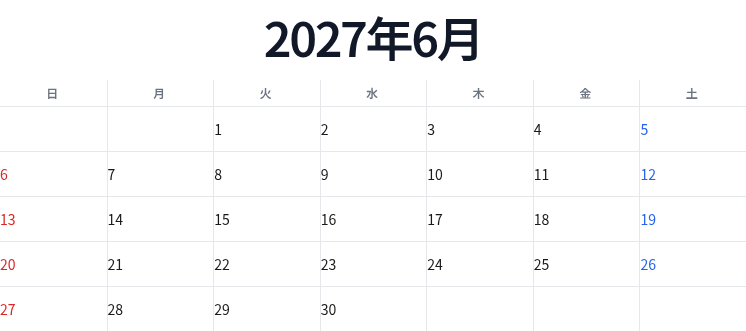
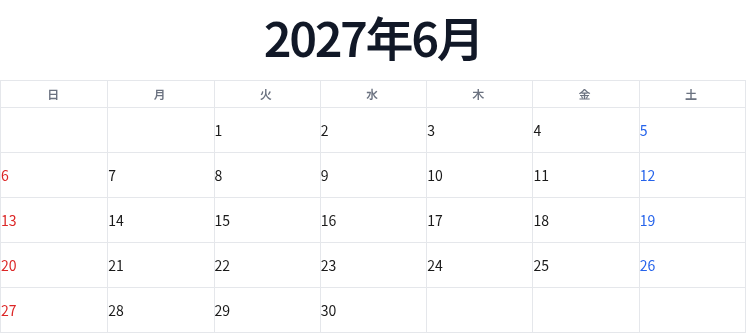
Refine writing and Modern calendar presets

diff --git a/tests/e2e/calendar-layouts.spec.ts b/tests/e2e/calendar-layouts.spec.ts
@@ -35,7 +35,7 @@ test("selects calendar presets and exports the date list", async ({ page }) => {
   for (const [label, layout] of [
     ["書き込み用", "writing"],
     ["クラシカル", "centered"],
-    ["右揃え・線なし", "right-aligned"],
+    ["モダン", "right-aligned"],
     ["年月を上下に", "stacked"],
     ["月は左、年は右", "split"],
     ["左サイド見出し", "side-title"],
@@ -47,6 +47,7 @@ test("selects calendar presets and exports the date list", async ({ page }) => {
     await button.click();
     await expect(button).toHaveAttribute("aria-pressed", "true");
     await expect(calendar).toHaveAttribute("data-calendar-layout", layout);
+    await expect(calendar).toHaveAttribute("data-day-frame", String(layout === "writing"));
   }
 
   await openPanel(page, "サイズと配置");
@@ -212,4 +213,36 @@ test("toggles vertical rules, horizontal rules and the frame independently", asy
   await layouts.getByRole("button", { name: "日付カード", exact: true }).click();
   await expect(calendar).toHaveAttribute("data-day-rule-v", "true");
   await expect(calendar).toHaveAttribute("data-day-rule-h", "true");
+});
+
+test("aligns the Modern heading, weekdays, and underlined holiday dates", async ({ page }) => {
+  await page.goto("/");
+  await openPanel(page, "見た目");
+  await page.getByRole("button", { name: "モダン", exact: true }).click();
+  await expect(page.getByRole("button", { name: "Monochrome", exact: true })).toHaveClass(/ring-2/);
+  const calendar = page.locator('[data-calendar-layout="right-aligned"]').first();
+  const holiday = calendar.locator(".calendar-holiday-underline").first();
+  await expect(holiday).toHaveText("1");
+  await expect(holiday).toHaveCSS("text-decoration-line", "underline");
+  await expect
+    .poll(() =>
+      calendar.evaluate((grid) => {
+        const edge = (selector: string) => {
+          const range = document.createRange();
+          range.selectNodeContents(grid.querySelector(selector)!);
+          return range.getBoundingClientRect().right;
+        };
+        const month = edge(".calendar-title");
+        const saturday = edge(".calendar-weekdays > :last-child");
+        const saturdayDate = edge(".calendar-cell:nth-child(7) .calendar-day-number");
+        const friday = edge(".calendar-weekdays > :nth-child(6)");
+        const holidayDate = edge(".calendar-holiday-underline");
+        return Math.max(
+          Math.abs(month - saturday),
+          Math.abs(saturday - saturdayDate),
+          Math.abs(friday - holidayDate),
+        );
+      }),
+    )
+    .toBeLessThan(1);
 });

diff --git a/src/lib/html/gridRenderer.ts b/src/lib/html/gridRenderer.ts
@@ -53,15 +53,15 @@ export function renderGridHtml(
   const titleText =
     titleOrder === "stacked" ? year + escapeHtml(title.main) : escapeHtml(title.main) + year;
   const dayCount = page.grid.flat().filter((cell) => cell.isCurrentMonth && cell.date).length;
-  let gridHtml = `<div data-calendar-layout="${layout}"${alignmentAttrs} data-day-rule-h="${dayRuleH}" data-day-rule-v="${dayRuleV}" data-day-frame="${dayFrame}" data-title-position="${titlePosition}" data-title-order="${titleOrder}" data-title-rule="${titleRule}" data-weekday-align="${weekdayAlign}" style="width:${gridWidth}%;--calendar-grid-rule:${page.theme.colors.gridRule};--calendar-list-rows:${Math.ceil(dayCount / 2)};--calendar-list-short-rows:${Math.ceil(dayCount / 3)}">`;
+  let gridHtml = `<div data-calendar-layout="${layout}"${alignmentAttrs} data-day-rule-h="${dayRuleH}" data-day-rule-v="${dayRuleV}" data-day-frame="${dayFrame}" data-title-position="${titlePosition}" data-title-order="${titleOrder}" data-title-rule="${titleRule}" data-weekday-align="${weekdayAlign}" style="width:${gridWidth}%;--calendar-grid-rule:${page.theme.colors.gridRule};--calendar-holiday-mark:${page.theme.colors.holidayMark};--calendar-list-rows:${Math.ceil(dayCount / 2)};--calendar-list-short-rows:${Math.ceil(dayCount / 3)}">`;
   // Month label
-  gridHtml += `<div class="calendar-title" style="color:${page.theme.colors.monthLabel};font-size:${monthFontSize}px;font-weight:800;letter-spacing:-0.05em;margin-bottom:${headerGap}px">${titleText}</div>`;
+  gridHtml += `<div class="calendar-title" style="color:${page.theme.colors.monthLabel};font-size:${monthFontSize}px;font-weight:800;margin-bottom:${headerGap}px">${titleText}</div>`;
   // Header rule
   gridHtml += `<div class="calendar-title-rule" style="border-bottom:1px solid ${page.theme.colors.headerRule};margin-bottom:${headerGap}px"></div>`;
   // Weekday headers
   gridHtml += `<div class="calendar-weekdays" style="margin-bottom:${dayFrame || dayRuleV ? 0 : Math.round(headerGap / 2)}px">`;
   for (const header of page.weekdayHeaders) {
-    gridHtml += `<div style="font-size:${weekdayFontSize}px;font-weight:700;text-transform:uppercase;letter-spacing:0.2em;color:${page.theme.colors.weekdayHeader};padding:${Math.round(cellPadding / 2)}px 0">${escapeHtml(header)}</div>`;
+    gridHtml += `<div style="font-size:${weekdayFontSize}px;font-weight:700;text-transform:uppercase;color:${page.theme.colors.weekdayHeader};padding:${Math.round(cellPadding / 2)}px 0">${escapeHtml(header)}</div>`;
   }
   gridHtml += `</div>`;
   // Day grid

diff --git a/src/components/sidebar/AppearanceSection.tsx b/src/components/sidebar/AppearanceSection.tsx
@@ -16,6 +16,8 @@ const thumbnails = import.meta.glob<string>("../../../screenshots/layouts/*.png"
 });
 export function AppearanceSection() {
   const style = useCalendarStore((s) => s.calendarStyle);
+  const themeId = useCalendarStore((s) => s.themeId);
+  const holidayMarkStyle = useCalendarStore((s) => s.holidayMarkStyle);
   const fontId = useCalendarStore((s) => s.fontId);
   const monthLabelFormat = useCalendarStore((s) => s.monthLabelFormat);
   const orientation = useCalendarStore((s) => s.orientation);
@@ -28,8 +30,16 @@ export function AppearanceSection() {
       <section aria-label="プリセット" className="space-y-2">
         <h3 className="text-sm font-bold">プリセット</h3>
         <div className="grid grid-cols-2 gap-2">
-          {CALENDAR_LAYOUTS.map(
-            ({ id, label, page, fontId: presetFontId, monthLabelFormat: presetMonthFormat }) => (
+          {CALENDAR_LAYOUTS.map((preset) => {
+            const {
+              id,
+              label,
+              page,
+              fontId: presetFontId,
+              monthLabelFormat: presetMonthFormat,
+            } = preset;
+            const appearance = "appearance" in preset ? preset.appearance : undefined;
+            return (
               <button
                 key={id}
                 type="button"
@@ -39,6 +49,7 @@ export function AppearanceSection() {
                   useCalendarStore.setState((state) => ({
                     calendarStyle: { ...state.calendarStyle, ...getPresetStyle(id) },
                     ...page,
+                    ...appearance,
                     fontId: presetFontId,
                     monthLabelFormat: presetMonthFormat,
                   }))
@@ -57,12 +68,15 @@ export function AppearanceSection() {
                     orientation !== page.orientation ||
                     imagePosition !== page.imagePosition ||
                     fontId !== presetFontId ||
-                    monthLabelFormat !== presetMonthFormat) && (
+                    monthLabelFormat !== presetMonthFormat ||
+                    (appearance &&
+                      (themeId !== appearance.themeId ||
+                        holidayMarkStyle !== appearance.holidayMarkStyle))) && (
                     <span className="text-on-surface-variant">調整済み</span>
                   )}
               </button>
-            ),
-          )}
+            );
+          })}
         </div>
       </section>
 

diff --git a/src/components/preview/CalendarGrid.tsx b/src/components/preview/CalendarGrid.tsx
@@ -71,6 +71,7 @@ export function CalendarGrid({
     fontFamily: `"${fontFamily}"`,
     fontWeight,
     "--calendar-grid-rule": colors.gridRule,
+    "--calendar-holiday-mark": colors.holidayMark,
     "--calendar-list-rows": Math.ceil(dayCount / 2),
     "--calendar-list-short-rows": Math.ceil(dayCount / 3),
   } as CSSProperties;
@@ -92,7 +93,7 @@ export function CalendarGrid({
       {/* Month label */}
       <div
         data-testid="month-title"
-        className="calendar-title font-extrabold tracking-tighter"
+        className="calendar-title font-extrabold"
         style={{
           color: colors.monthLabel,
           fontSize: `${monthFontSize}px`,
@@ -125,7 +126,7 @@ export function CalendarGrid({
         {weekdayHeaders.map((header, i) => (
           <div
             key={i}
-            className="text-center font-bold uppercase tracking-[0.2em]"
+            className="text-center font-bold uppercase"
             style={{
               color: colors.weekdayHeader,
               fontSize: `${weekdayFontSize}px`,
@@ -179,10 +180,13 @@ export function CalendarGrid({
                     height: layout === "date-list" ? undefined : `${cellSize}px`,
                     borderRadius: isCircle ? "50%" : undefined,
                     border: isCircle ? `1.5px solid ${colors.holidayMark}` : undefined,
-                    borderBottom: isUnderline ? `2px solid ${colors.holidayMark}` : undefined,
                   }}
                 >
-                  {cell.dayOfMonth}
+                  {isUnderline ? (
+                    <span className="calendar-holiday-underline">{cell.dayOfMonth}</span>
+                  ) : (
+                    cell.dayOfMonth
+                  )}
                 </span>
                 {layout === "date-list" && (
                   <span className="calendar-list-weekday" style={{ color: textColor }}>

diff --git a/src/lib/html/cellRenderer.ts b/src/lib/html/cellRenderer.ts
@@ -50,7 +50,9 @@ export function renderDayCell(
   let spanStyle = `color:${textColor};display:flex;align-items:center;${isList ? `font-size:${Math.min(dayFontSize, 14)}px;` : `width:${cellSize}px;height:${cellSize}px;font-size:${dayFontSize}px;`}`;
   if (isCircle)
     spanStyle += `border-radius:50%;border:1.5px solid ${page.theme.colors.holidayMark};`;
-  if (isUnderline) spanStyle += `border-bottom:2px solid ${page.theme.colors.holidayMark};`;
+  const dayLabel = isUnderline
+    ? `<span class="calendar-holiday-underline">${cell.dayOfMonth}</span>`
+    : cell.dayOfMonth;
 
   const mark = cell.isHoliday
     ? renderHolidayMark(page.holidayMarkStyle, page.theme.colors.holidayMark)
@@ -59,5 +61,5 @@ export function renderDayCell(
   const weekday = style?.showWeekday
     ? `<span class="calendar-list-weekday" style="color:${textColor}">${escapeHtml(page.weekdayHeaders[ci])}</span>`
     : "";
-  return `<div class="calendar-cell"${ruled} style="padding:${getDayCellPadding(isList ? 0 : cellPadding, style?.dayAlignV)}"><span class="calendar-day-number"${isCircle ? " data-circled" : ""} style="${spanStyle}">${cell.dayOfMonth}</span>${weekday}${mark}</div>`;
+  return `<div class="calendar-cell"${ruled} style="padding:${getDayCellPadding(isList ? 0 : cellPadding, style?.dayAlignV)}"><span class="calendar-day-number"${isCircle ? " data-circled" : ""} style="${spanStyle}">${dayLabel}</span>${weekday}${mark}</div>`;
 }

diff --git a/src/lib/html/cellRenderer.test.ts b/src/lib/html/cellRenderer.test.ts
@@ -135,14 +135,15 @@ describe("renderDayCell", () => {
   it("renders underline for holiday with underline style", () => {
     const page = makePage({ holidayMarkStyle: "underline" });
     const html = renderDayCell(page, 0, 3, 1);
-    expect(html).toContain(`border-bottom:2px solid ${theme.colors.holidayMark}`);
+    expect(html).toContain('<span class="calendar-holiday-underline">29</span>');
+    expect(html).not.toContain("border-bottom:2px");
   });
 
   it("renders no extra decoration for color-only style", () => {
     const page = makePage({ holidayMarkStyle: "color-only" });
     const html = renderDayCell(page, 0, 3, 1);
     expect(html).not.toContain("border-radius");
-    expect(html).not.toContain("border-bottom:2px");
+    expect(html).not.toContain("calendar-holiday-underline");
     expect(html).toContain(`color:${theme.colors.sunday}`);
   });
 

diff --git a/src/lib/calendarLayouts.css b/src/lib/calendarLayouts.css
@@ -6,6 +6,18 @@
 
 :where([data-calendar-layout]) .calendar-weekdays > div {
   text-align: center;
+  letter-spacing: 0.2em;
+}
+
+:where([data-calendar-layout]) .calendar-title {
+  letter-spacing: -0.05em;
+}
+
+.calendar-holiday-underline {
+  text-decoration: underline;
+  text-decoration-color: var(--calendar-holiday-mark);
+  text-decoration-thickness: 2px;
+  text-underline-offset: 0.2em;
 }
 
 :where([data-calendar-layout]) .calendar-day-number {
@@ -30,6 +42,11 @@
 [data-title-position="right"] .calendar-title,
 [data-weekday-align="end"] .calendar-weekdays > div {
   text-align: right;
+  letter-spacing: normal;
+}
+
+[data-title-position="right"][data-day-frame="true"] .calendar-title {
+  padding-inline-end: 1px;
 }
 
 [data-title-position="left"] .calendar-title,

diff --git a/src/lib/calendarLayouts.ts b/src/lib/calendarLayouts.ts
@@ -27,7 +27,8 @@ export const CALENDAR_LAYOUTS = [
   },
   {
     id: "right-aligned",
-    label: "右揃え・線なし",
+    label: "モダン",
+    appearance: { themeId: "monochrome", holidayMarkStyle: "underline" },
     page: PORTRAIT_PAGE,
     fontId: "inter",
     monthLabelFormat: "yyyy.mm",
@@ -89,7 +90,7 @@ export function getDayRules(
 ) {
   const layout = style?.layoutPreset;
   return {
-    dayFrame: style?.dayFrame === true,
+    dayFrame: style?.dayFrame ?? layout === "writing",
     dayRuleH: style?.dayRuleH ?? (layout !== "unruled" && layout !== "right-aligned"),
     dayRuleV:
       style?.dayRuleV ??

diff --git a/src/components/preview/CalendarGrid.test.tsx b/src/components/preview/CalendarGrid.test.tsx
@@ -80,7 +80,8 @@ describe("CalendarGrid", () => {
     });
     renderGrid({ grid, monthLabel: "2026.01", holidayMarkStyle: "underline" });
     const el = screen.getByText("1");
-    expect(el.style.borderBottom).toContain("2px solid");
+    expect(el.classList.contains("calendar-holiday-underline")).toBe(true);
+    expect(el.parentElement?.style.borderBottom).toBe("");
   });
 
   it("renders color-only style without extra decoration", () => {

diff --git a/README.md b/README.md
@@ -54,25 +54,25 @@ Classic と Montserrat の組み合わせで、日付の数字の太さを比較
 
 ## レイアウト見本
 
-設定の「見た目 → プリセット」から、標準を含む10種類の見本を選べます。レイアウトごとの初期文字サイズで、2027年6月を表示した見本です。プリセットごとに用紙の向きと画像の位置が切り替わります。縦リストはA4横向きで画像が左、他のプリセットはA4縦向きで画像が上です。
+設定の「見た目 → プリセット」から、標準を含む10種類の見本を選べます。レイアウトごとの初期文字サイズで、2027年6月を中心とした見本です。プリセットごとに用紙の向きと画像の位置が切り替わります。縦リストはA4横向きで画像が左、他のプリセットはA4縦向きで画像が上です。
 
-プリセットの下にテーマとフォントがあります。「サイズと配置」では月見出しの位置・年月の並べ方・下線、日付と曜日の揃え、文字サイズ、用紙内の余白を調整できます。プリセットを選び直すと構成の初期値が入り、テーマと上余白は引き継がれます。書体と年月表記はプリセットごとの設定に切り替わります。クラシカルでは Shippori Mincho と「June 2027」の形式を使います。
+プリセットの下にテーマとフォントがあります。「サイズと配置」では月見出しの位置・年月の並べ方・下線、日付と曜日の揃え、文字サイズ、用紙内の余白を調整できます。プリセットを選び直すと構成の初期値が入り、テーマと上余白は引き継がれます。書体と年月表記はプリセットごとの設定に切り替わります。クラシカルでは Shippori Mincho と「June 2027」の形式を使います。モダンでは Monochrome と祝日の下線を適用し、書き込み用では日付欄の枠を有効にします。
 
 日付欄の縦罫線・横罫線・枠を個別に切り替えられます。縦罫線は列の間に入り、全体を囲むには「枠」をオンにします。
 
 日付の左右・上下揃えは別々に指定できます。「自動」を選ぶとレイアウト本来の揃え方になります。
 
-| クラシカル                                            | 右揃え・線なし                                           |
-| ----------------------------------------------------- | -------------------------------------------------------- |
-| ![クラシカル](screenshots/layouts/centered.png)       | ![右揃え・線なし](screenshots/layouts/right-aligned.png) |
-| **年月を上下に**                                      | **月は左、年は右**                                       |
-| ![年月を上下に](screenshots/layouts/stacked.png)      | ![月は左、年は右](screenshots/layouts/split.png)         |
-| **左サイド見出し**                                    | **日付カード**                                           |
-| ![左サイド見出し](screenshots/layouts/side-title.png) | ![日付カード](screenshots/layouts/cards.png)             |
-| **標準**                                              | **書き込み用**                                           |
-| ![標準](screenshots/layouts/standard.png)             | ![書き込み用](screenshots/layouts/writing.png)           |
-| **週ごとの帯**                                        | **縦リスト**                                             |
-| ![週ごとの帯](screenshots/layouts/week-bands.png)     | ![縦リスト](screenshots/layouts/date-list.png)           |
+| クラシカル                                            | モダン                                           |
+| ----------------------------------------------------- | ------------------------------------------------ |
+| ![クラシカル](screenshots/layouts/centered.png)       | ![モダン](screenshots/layouts/right-aligned.png) |
+| **年月を上下に**                                      | **月は左、年は右**                               |
+| ![年月を上下に](screenshots/layouts/stacked.png)      | ![月は左、年は右](screenshots/layouts/split.png) |
+| **左サイド見出し**                                    | **日付カード**                                   |
+| ![左サイド見出し](screenshots/layouts/side-title.png) | ![日付カード](screenshots/layouts/cards.png)     |
+| **標準**                                              | **書き込み用**                                   |
+| ![標準](screenshots/layouts/standard.png)             | ![書き込み用](screenshots/layouts/writing.png)   |
+| **週ごとの帯**                                        | **縦リスト**                                     |
+| ![週ごとの帯](screenshots/layouts/week-bands.png)     | ![縦リスト](screenshots/layouts/date-list.png)   |
 
 ## 機能一覧
 
